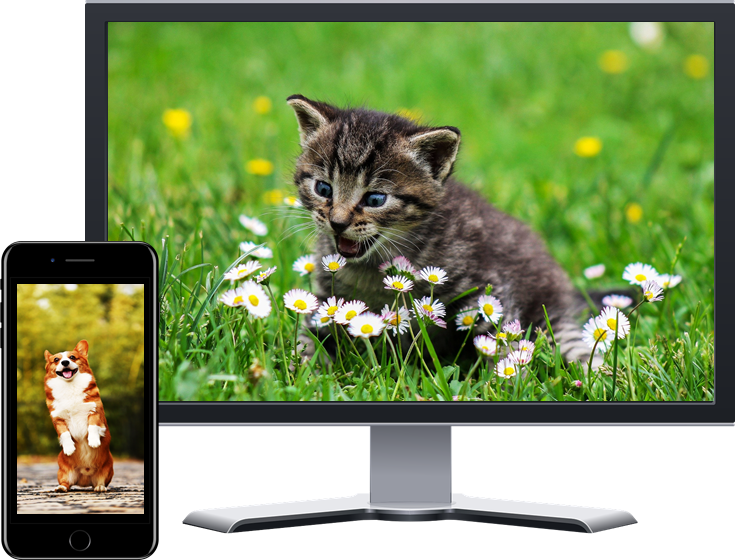
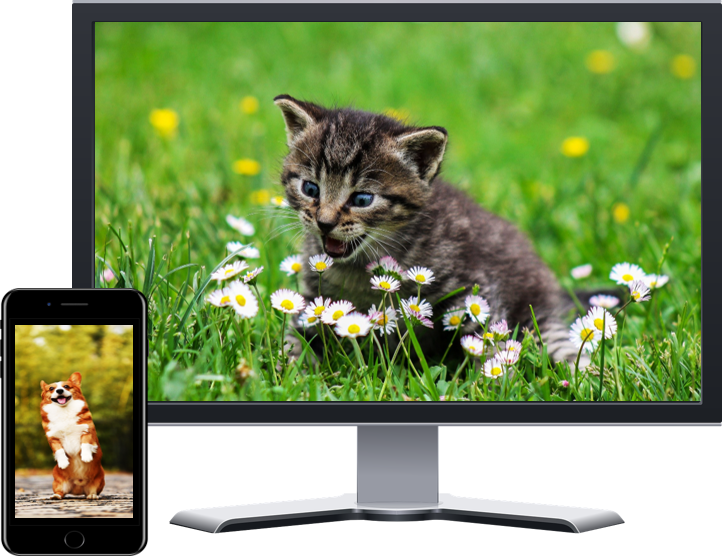
Add files via upload
수정

diff --git a/pet.html b/pet.html
@@ -11,7 +11,7 @@
       <span id="logo">
         <p><b>PETFLIX</b></p>
       </span>
-      <button id="lang"> 
+      <button id="lang" class="set_language"> 
         <i class="fas fa-globe"></i> 
         한국어
         <i class="fas fa-caret-down"></i>
@@ -36,11 +36,106 @@
     <hr id="line">
 
     <div id="content">
-      
+      <div class="odd">
+        <h1 class="text_title">제목<h1>
+        <p class="description">설명</p>
+        <img class="content_img" src="tv.png">
+      </div>
+        <hr id="line">
+
+      <div class="even">
+        <div class="text">
+          <h1 class="text_title">제목<h1>
+          <p class="description">설명</p>
+        </div>
+        <img class="content_img" src="phone.png">
+        </div>
+        <hr id="line">
+
+        <div class="odd">
+          <div class="text">
+            <h1 class="text_title">제목<h1>
+            <p class="description">설명</p>
+            <img class="content_img" src="two.png">
+          </div>
+          <hr id="line">
+  
+        <div class="even">
+          <div class="text">
+            <h1 class="text_title">제목<h1>
+            <p class="description">설명</p>
+            <img class="content_img" src="children.png">
+          </div>
+        </div>
+      </div>
+      <div>
+        <h1 class="title_question">자주 묻는 질문</h1>
+      </div>
+      <div>
+        <button class="btn_question">어디에서 시청할 수 있나요?
+          <i id="plus" class="fas fa-plus"></i>
+        </button>
+        
+      </div>
+      <div>
+        <button class="btn_question">멤버십을 해지하려면 어떻게 해야 하나요?
+          <i id="plus" class="fas fa-plus"></i>
+        </button>
+      </div>
     </div>
 
-    <div id="footer">
+    <hr id="line">
 
+    <div id="footer">
+      <div>
+        <p id="question">질문이 있으신가요? 문의 전화: 000-000-0000</p>
+      </div>
+      <div>
+        <div class="ftr_btn">
+          <span class="box_btn"><button class="btn">자주 묻는 질문</button></span>
+          <span class="box_btn"><button class="btn">고객 센터     </button></span>
+          <span class="box_btn"><button class="btn">계정          </button></span>
+          <span class="box_btn"><button class="btn">미디어 센터   </button></span>
+        </div>
+        <div class="ftr_btn">
+          <span><button class="btn">투자 정보(IR)</button></span>
+          <span><button class="btn">입사 정보    </button></span>
+          <span><button class="btn">지원 디바이스 </button></span>
+          <span><button class="btn">이용 약관    </button></span>
+        </div>
+        <div class="ftr_btn">
+          <span><button class="btn">개인정보 </button></span>
+          <span><button class="btn">쿠키 설정</button></span>
+          <span><button class="btn">회사 정보</button></span>
+          <span><button class="btn">문의하기 </button></span>
+        </div>
+        <div class="ftr_btn">
+          <span><button class="btn">속도 테스트 </button></span>
+          <span><button class="btn">법적 고지   </button></span>
+          <span><button class="btn">오직(  )에서</button></span>
+        </div>
+        
+      </div>
+      <div>
+        <button class="set_language">
+          <i class="fas fa-globe"></i> 
+          한국어
+          <i class="fas fa-caret-down"></i>
+        </button>
+      </div>
+      <div>
+        <div>
+          <h5>넷플릭스 대한민국</h5>
+        </div>
+        <div >
+          <p id="info">회사 이름</p>
+          <p id="info">대표:</p>
+          <p id="info">이메일 주소:</p>
+          <p id="info">주소:</p>
+          <p id="info">사업자등록번호:</p>
+          <p id="info">클라우드 호스팅:</p>
+        </div>
+      </div>
     </div>
 
     <script src="https://use.fontawesome.com/releases/v5.2.0/js/all.js"></script>

diff --git a/pet.css b/pet.css
@@ -52,6 +52,8 @@ body {
     z-index: 10;
 }
 
+
+
 #login {
     position: absolute;
     width: 5vw; 
@@ -73,9 +75,9 @@ body {
 }
 
 .first {
-    position: relative  ;
-    top: 1vh;
-    left: 1vw; 
+    position: absolute;
+    top: 30vh;
+    left: 30vw; 
     text-align: center;
     font-size: 4vw;
     color: white;
@@ -83,9 +85,9 @@ body {
 }
 
 .second {
-    position: relative;
-    top: 1%;
-    left: 1%; 
+    position: absolute;
+    top: 55vh;
+    left: 30vw; 
     text-align: center;
     font-size: 1.5vw;
     color: white;
@@ -94,8 +96,8 @@ body {
 
 .third {
     position: absolute;
-    top: 450px;
-    left: 420px; 
+    top: 65vh;
+    left: 30vw; 
     text-align: center;
     font-size: 0.9vw;
     color: white;
@@ -106,7 +108,7 @@ body {
     position: absolute;
     width: 30vw; 
     height:7vh;
-    top: 50vh;
+    top: 80vh;
     left: 30vw; 
     border: 0;
     border-top-left-radius: 3px; 
@@ -118,7 +120,7 @@ body {
     position: absolute;
     width: 12vw; 
     height: 7vh;  
-    top: 50vh;
+    top: 80vh;
     left: 60vw; 
     border: none;
     border-top-right-radius: 3px; 
@@ -128,8 +130,127 @@ body {
     z-index: 10;
 }
 
+/*--------------------------content-----------------------*/
+
 #line {
-    size: 10px;
-    color: grey;
+    height: 1.2vh;
+    color: rgb(63, 63, 63);
+    background-color: rgb(63, 63, 63);
+    border: none;
     z-index: 3;
+}
+
+.odd > text_title {
+    position: relative;
+    left: 20vw;
+    top: 10vh;
+    margin-bottom: 1%;
+    font-size: 0.7rem;
+}
+
+.description {
+    position: relative;
+    left: 20vw;
+    top: 20vh;
+    font-size: 0.4rem;
+}
+
+.content_img {
+    position: relative;
+    width: 30vw;
+    height: auto;
+    left: 50vw;
+    top: 0vh;
+    z-index: 10;
+    margin-bottom: 2%   ;
+}
+
+#content {
+    color: white;
+    z-index: 10;
+}
+
+.btn {
+    color:grey;
+    background-color: black;
+    border: none; 
+}
+
+#name {
+    margin-bottom: 3%;
+}
+
+.title_question {
+    position: relative;
+    left: 40vw;
+    margin-bottom: 3%;
+}
+
+.btn_question {
+    position: relative;
+    width: 40vw;
+    height: 10vh;
+    left: 30%;
+    margin-bottom: 1%;
+    border: none;
+    color: white;
+    font-size: 0.5rem;
+    text-align: left;
+    padding-left: 1%;
+    background-color: rgb(63, 63, 63);
+}
+
+#plus {
+    text-align: right;
+    margin-right: 1%;
+}
+
+/*-----------------------푸터---------------------------*/
+#footer {
+    color:grey;
+    z-index: 10;
+}
+
+#question {
+    position: relative;
+    left: 25vw;
+    font-size: 0.35rem;
+    margin-top: 5%;
+
+}
+
+.ftr_btn {
+    position: relative;
+    left: 25vw;
+
+}
+
+.set_language {
+    position: relative;
+    left: 25vw;
+    width: 6vw; 
+    height: 5vh;
+    border-width: 0.08px;
+    border-radius: 5%;
+    border-color:rgb(223, 223, 223);
+    background-color: black;
+    color: white;
+    outline: 0; 
+    font-size: 0.9vw;
+    z-index: 10;
+}
+
+h5 {
+    position: relative;
+    left: 25vw;
+    font-size: 0.8vw;
+    margin-top: 1%;
+    margin-bottom: 1%;
+}
+
+#info {
+    font-size: 0.76vw;
+    padding-bottom: 0.2%;
+    position: relative;
+    left: 25vw
 }
